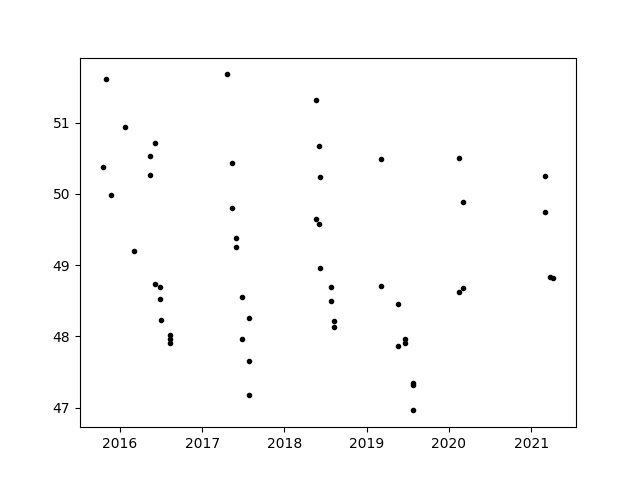
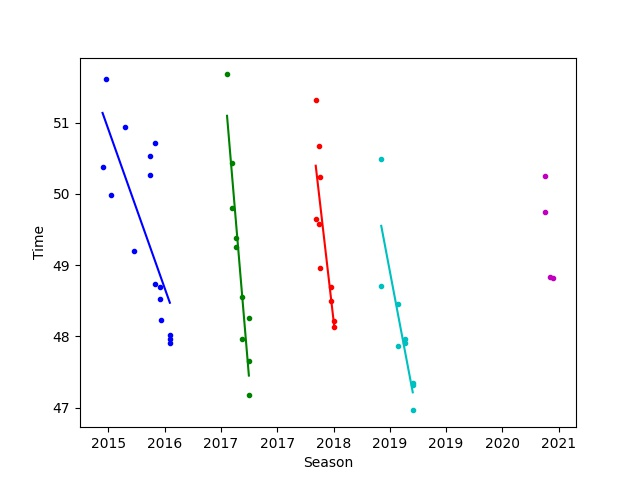
predict for one swimmer succesfully

diff --git a/plot.py b/plot.py
@@ -1,7 +1,10 @@
+from os import SCHED_FIFO
 import pandas as pd
 from datetime import datetime
 import matplotlib.pyplot as plt
-
+import matplotlib.dates as dts
+import numpy as np
+from statistics import mean, median
 
 datetime.strptime('2012-02-10' , '%Y-%m-%d')
 
@@ -9,6 +12,12 @@ df = pd.read_csv('formatted_times.csv')
 df = df.drop('Unnamed: 0', 1)
 
 times = {}
+
+def predictSwimmer(swimmerTimes):
+    
+    
+    predictedTime = 0
+    return predictedTime
 
 # Create Dict to track all times for each swimmer
 for row in df.itertuples():
@@ -23,11 +32,90 @@ for row in df.itertuples():
 test = times['Dressel, Caeleb']
 dates, times = zip(*test)
 times = [x for _, x in sorted(zip(dates, times))]
-plt.plot(sorted(dates), times)
-plt.ylabel('Times')
-plt.show()
 
 
-# todo : create line graph sample
-# todo : create Shiskin decomposition of one sample
 
+df = pd.DataFrame(test, columns =['Date', 'Time'])   
+df = df.sort_values(by=['Date'])
+
+
+#find one seasons linear regression
+seasons = {}
+for i in range(2015,2021):
+    seasons[i] = {"Dates":[], "Times":[]}
+
+for _, row in df.iterrows():
+    date = (row['Date'])
+    time = row['Time']
+    season_year = date.year
+    if (date.month < 9):
+        #season belongs to prior year
+        season_year = date.year - 1
+
+    seasons[season_year]['Dates'].append(date)
+    seasons[season_year]['Times'].append(time)
+i=0       
+cols = ['b', 'g', 'r', 'c', 'm', 'k']
+
+#tentatively remove covid season
+seasons.pop(2019)
+gradients = []
+
+for season in seasons:
+    
+    x, y = seasons[season]['Dates'], seasons[season]['Times']
+
+    for j in range(len(x)):
+        x[j] = dts.date2num(np.datetime64(x[j]))
+
+    plt.plot(x, y, marker='.', linestyle="", color=cols[i] )
+    if season != 2020:
+        #plot the line
+        # increment color for next season
+        #plt.plot(seasons[season])
+        m, b = np.polyfit(x, y, 1)
+
+        mx = []
+        for k in range(len(x)):
+            mx.append(m*x[k])
+            
+        gradients.append(m)
+        plt.plot(x, mx + b, color=cols[i])
+        plt.xlabel("Season")
+        plt.ylabel("Time")
+        i += 1
+ax = plt.gca()
+labs = (ax.get_xticks())
+swag = []
+for elt in labs:
+    swag.append(dts.num2date(elt).strftime('%Y'))
+    
+ax.set_xticklabels(swag)
+plt.savefig('test.jpg')
+lineOfBestFitPreds = []
+
+for l in range(len(seasons[2020]['Dates'])):
+        
+    # find prediction using average of past gradients
+    # take point in middle of 2020 season
+    time20 = (seasons[2020]['Times'][l])
+    date20 = (seasons[2020]['Dates'][l])
+    # y = mx + b
+    # b = y - mx
+    intercept = time20 - (mean(gradients)*date20)
+    # now predict on olympic trial date
+    trialdate= dts.date2num(np.datetime64('2021-06-16'))
+    trialtime = (mean(gradients)*(trialdate)) + intercept
+    lineOfBestFitPreds.append(trialtime)
+
+predict1 = median(lineOfBestFitPreds)
+fastest = []
+# find fastest times each season
+for year in seasons:
+    if year != 2020:
+        fastest.append(min(seasons[year]['Times']))
+years = [2015, 2016, 2017, 2018]   
+
+m2, b2 = np.polyfit(years, fastest, 1)
+predict2 = (m2*2020) + b2
+print(mean([predict1, predict2]))

diff --git a/models.py b/models.py
@@ -1,0 +1,6 @@
+import matplotlib.pyplot as plt
+import pandas as pd
+import numpy as np
+import os
+from fbprophet import Prophet
+
